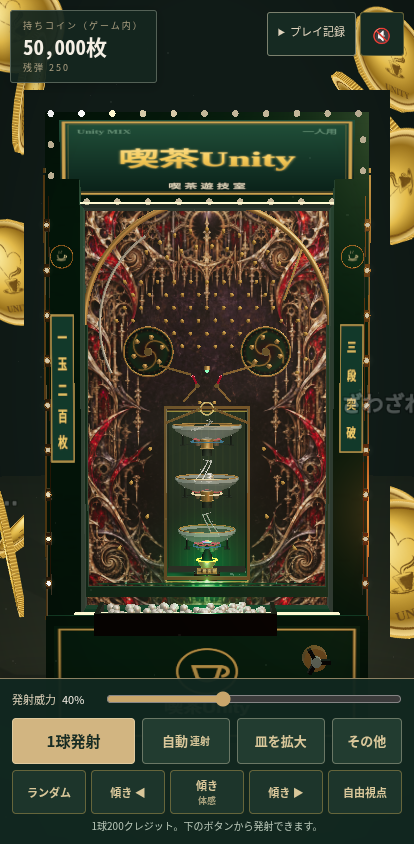
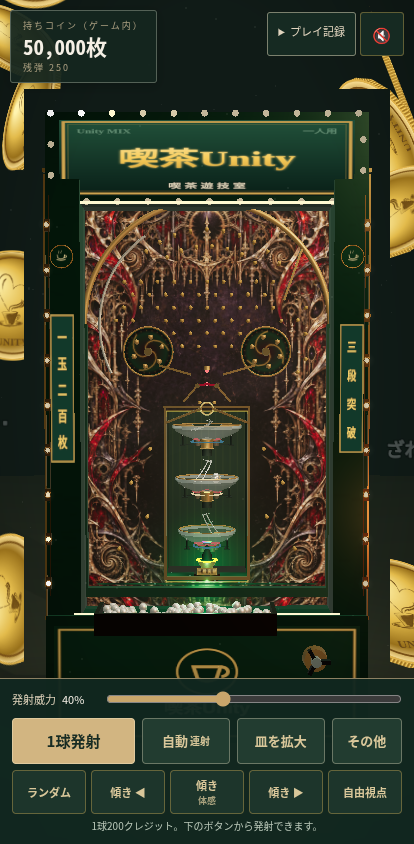
Harden cabinet lamp state and verify unchanged framing

diff --git a/public/silver-ring/src/cabinet-lamp-state.js b/public/silver-ring/src/cabinet-lamp-state.js
@@ -6,10 +6,11 @@ export const CABINET_PULSE_SECONDS = Object.freeze({
 });
 
 const PULSE_PRIORITY = Object.freeze({ gate: 1, bowl: 2, sink: 3, jackpot: 4 });
+const hasPulseKind = (kind) => Object.prototype.hasOwnProperty.call(CABINET_PULSE_SECONDS, kind);
 
 export function chooseCabinetPulse(current, next) {
-  if (!next || !Object.hasOwn(CABINET_PULSE_SECONDS, next.kind)) return current ?? null;
-  if (!current || !Object.hasOwn(CABINET_PULSE_SECONDS, current.kind)) return next;
+  if (!next || !hasPulseKind(next.kind)) return current ?? null;
+  if (!current || !hasPulseKind(current.kind)) return next;
   const priority = (pulse) => (PULSE_PRIORITY[pulse.kind] ?? 0)
     + (pulse.kind === 'bowl' || pulse.kind === 'sink' ? clamp(Number.isFinite(pulse.tier) ? pulse.tier : 0, 0, 2) * 0.1 : 0)
     + (pulse.kind === 'sink' && pulse.win ? 0.5 : 0);
@@ -39,7 +40,7 @@ export function sampleCabinetLampState({ time = 0, mode = 'idle', pulse = null, 
     level = reduced ? 0.38 : 0.34 + Math.sin(t * 2.6) * 0.045;
   }
 
-  if (pulse && Object.hasOwn(CABINET_PULSE_SECONDS, pulse.kind)) {
+  if (pulse && hasPulseKind(pulse.kind)) {
     const duration = CABINET_PULSE_SECONDS[pulse.kind];
     const age = Number.isFinite(pulse.age) ? Math.max(0, pulse.age) : 0;
     if (age < duration) {

diff --git a/public/silver-ring/src/fx.js b/public/silver-ring/src/fx.js
@@ -354,7 +354,7 @@ export class FX {
   setCamMode(mode, tier = 0) { this.camMode = mode; this.camTier = tier; }
   setNeonMode(m) { this.neonMode = m; }
   pulseCabinet(kind, tier = 0, win = false) {
-    if (Object.hasOwn(CABINET_PULSE_SECONDS, kind)) {
+    if (Object.prototype.hasOwnProperty.call(CABINET_PULSE_SECONDS, kind)) {
       this.cabinetPulse = chooseCabinetPulse(this.cabinetPulse, { kind, tier, win, age: 0 });
     }
   }

diff --git a/test/silver_cabinet_lamps_browser.py b/test/silver_cabinet_lamps_browser.py
@@ -27,6 +27,10 @@ with sync_playwright() as p:
         page.wait_for_timeout(1000)
         initial = page.evaluate('''() => ({
           boardChildren: SILVER_GAME.refs.boardG.children.length,
+          machineBounds: (() => {
+            const box = new SILVER_GAME.refs.THREE.Box3().setFromObject(SILVER_GAME.refs.machineG);
+            return {min:box.min.toArray(), max:box.max.toArray()};
+          })(),
           lampCount: SILVER_GAME.refs.cabinetLampN,
           renderCalls: SILVER_GAME.refs.renderer.info.render.calls,
           triangles: SILVER_GAME.refs.renderer.info.render.triangles,
@@ -36,6 +40,10 @@ with sync_playwright() as p:
           scrollWidth: document.documentElement.scrollWidth
         })''')
         assert initial['boardChildren'] == 54, initial
+        for value, expected in zip(initial['machineBounds']['min'], [-1, -0.02, -1.161]):
+            assert abs(value - expected) < 1e-4, initial['machineBounds']
+        for value, expected in zip(initial['machineBounds']['max'], [1, 3.056, 0.839]):
+            assert abs(value - expected) < 1e-4, initial['machineBounds']
         assert initial['lampCount'] == 18, initial
         assert initial['scrollWidth'] <= w, initial
         assert initial['renderCalls'] <= 210, initial

diff --git a/docs/retro-cabinet-lamps-worklog.md b/docs/retro-cabinet-lamps-worklog.md
@@ -11,7 +11,7 @@
 - Lamp state is deterministic and separate from physics. Gate/bowl/sink/jackpot events produce amber/emerald/champagne pulses with progression priority; weaker new events cannot replace an active win/jackpot. Sink miss is amber; deeper bowl entries advance farther. Reduced-motion mode holds static color, disables chase, and avoids repeated instance-buffer uploads. Pause and game over clear temporary pulses.
 - A previous suspicion that the frame loop overwrote jackpot mode was checked against `jackpotLock`; no bug was present and the unnecessary change was reverted.
 - Matched captures: baseline `docs/qa/retro-cabinet-lamps/baseline/390x844-wide-matched.png`, updated `docs/qa/retro-cabinet-lamps/final/390x844-wide-matched.png`; target-width idle/event/jackpot/reduced captures are under `docs/qa/retro-cabinet-lamps/final/`.
-- Latest implementation smoke across 375/390/414×844, 375×667, and 844×390: phase `play`, board children 54, cabinet lamps 18, no horizontal overflow, event pulse priority and stage paths pass, sink miss/win colors distinguish amber/champagne, jackpot lock persists, reduced-motion lamp/glow/marquee arrays remain byte-identical between stable frames, pause clears pulses, single shot still deducts 200, and no app JS/page/resource errors. Side-lamp max channel rises from ~0.24 idle to ~2.05 during bowl entry; diffuse-glow max rises from ~0.11 to ~0.95. Header-bulb green-minus-red contrast changes from ~-0.15 idle to +1.64 during entry; sign strip green-minus-red changes from ~-0.12 to +0.75.
+- Latest implementation smoke across 375/390/414×844, 375×667, and 844×390: phase `play`, board children 54, cabinet lamps 18, no horizontal overflow, exact cabinet bounds unchanged (`[-1,-.02,-1.161]` to `[1,3.056,.839]`), event pulse priority and stage paths pass, sink miss/win colors distinguish amber/champagne, jackpot lock persists, reduced-motion lamp/glow/marquee arrays remain byte-identical between stable frames, pause clears pulses, single shot still deducts 200, and no app JS/page/resource errors. Side-lamp max channel rises from ~0.24 idle to ~2.05 during bowl entry; diffuse-glow max rises from ~0.11 to ~0.95. Header-bulb green-minus-red contrast changes from ~-0.15 idle to +1.64 during entry; sign strip green-minus-red changes from ~-0.12 to +0.75.
 - Focused lamp-state/shell-contract tests pass 12/12. Earlier, all silver unit suites except `silver-security.test.js` passed 23/23; the security suite could not resolve `ws` because this isolated worktree has no installed project dependencies. No package was added. `node --check`, Python syntax check, and `git diff --check` pass.
 - Matched 390px renderer count after batching and emblems: main 194 calls / 153,790 triangles; updated 203 calls / 161,046 triangles (+9 calls, +4.72% triangles), render size unchanged. Browser rAF is very slow under software WebGL; this is not a physical handset or hardware-acceleration measurement. At matched camera mode, machine bounds remain `[-1,-0.02,-1.161]` to `[1,3.056,0.839]`, renderer canvas remains 390×844, and board child count remains 54.
 - Current phase decision: continue implementation improvements. The requested 120-minute implementation block is not complete; separate 60-minute QA and production deployment have not started.
